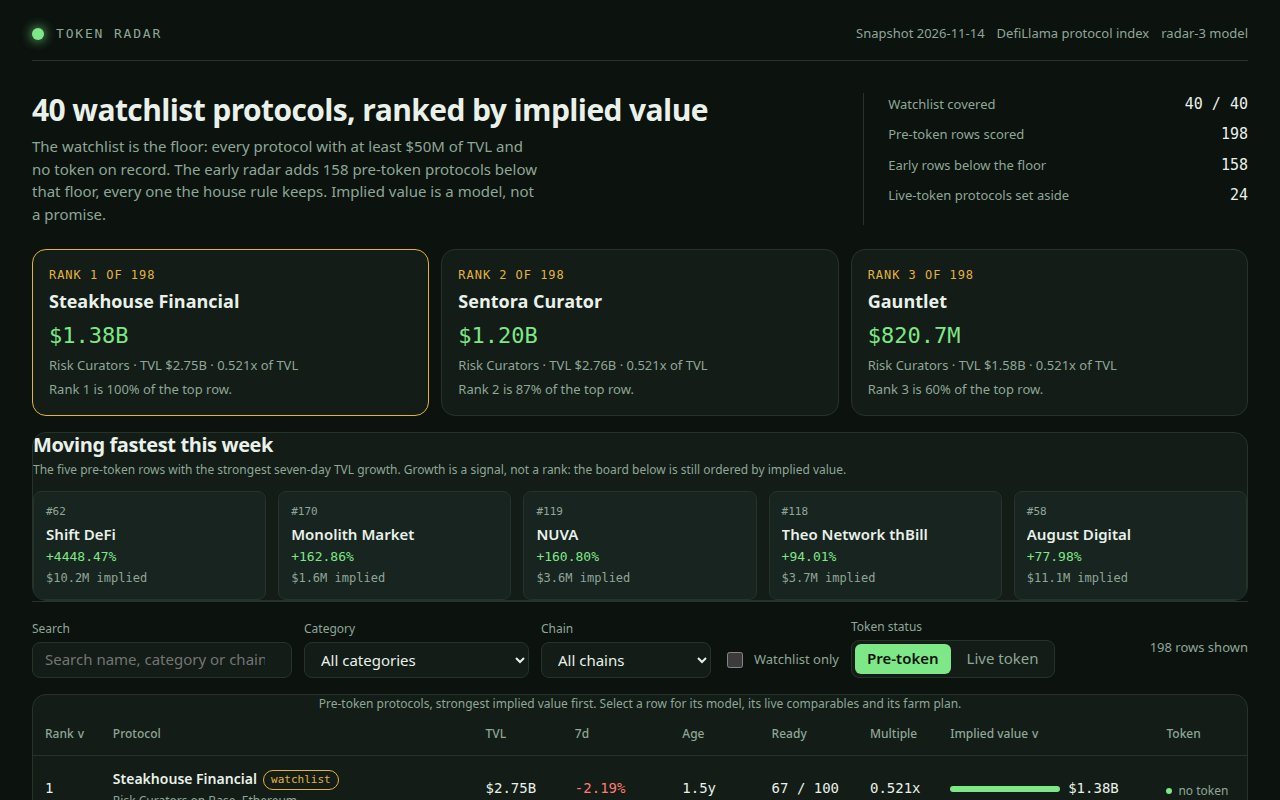
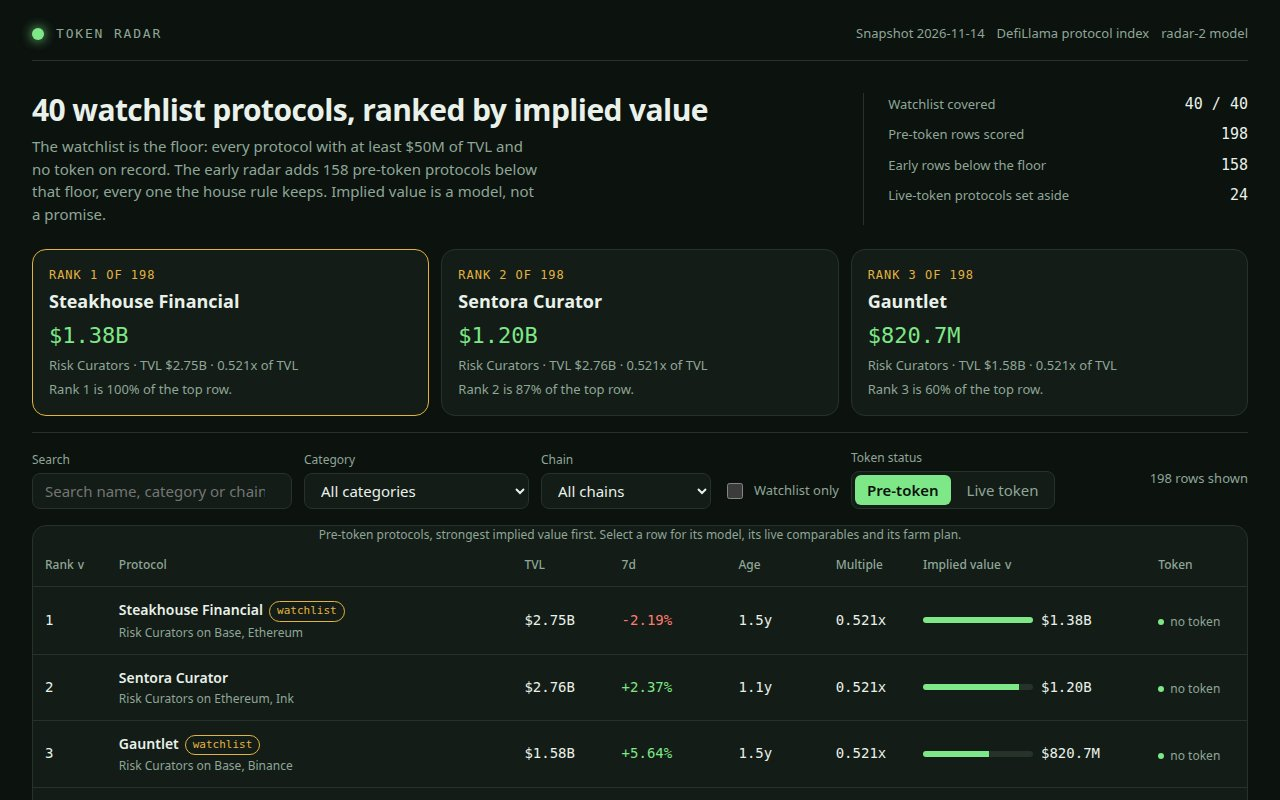
Token Radar: comps-calibrated pre-token board, dashboard and farm plans

diff --git a/dashboard/app.js b/dashboard/app.js
@@ -1,9 +1,8 @@
 // Token Radar's dashboard. It reads window.RADAR (written beside dashboard/ by main.ts) and
-// renders the ranked board, a filterable table, a top-movers strip, and a per-protocol detail view
-// with the model's own inputs, its live comparables, a launch-readiness score and the protocol's
-// farm plan. No network: every byte it shows is in data.js. The page recomputes each row from
-// the snapshot figures and the comps table, so the number on screen is the same arithmetic
-// board.json carries.
+// renders the ranked board, a filterable table, a per-protocol detail view with the model's own
+// inputs, its live comparables and the protocol's farm plan. No network: every byte it shows is
+// in data.js. The page recomputes each row from the snapshot figures and the comps table, so the
+// number on screen is the same arithmetic board.json carries.
 (function () {
   'use strict';
 
@@ -78,29 +77,6 @@
     var m = DATA.model;
     var chains = row.chains && row.chains.length > 0 ? row.chains.length : 1;
     return 1 + Math.min(chains - 1, m.breadth_max_chains) * m.breadth_per_chain;
-  }
-
-  // Launch readiness, 0..100, from the same four facts the value model reads, weighted for timing
-  // instead of size: size is worth 30 (a $2B protocol scores the full 30, a $50M one scores 0),
-  // age 25 (three years with no token scores the full 25), seven-day growth 30 (flat scores 10,
-  // +60% scores 30, -30% scores 0), and breadth 15 (one chain scores 0, nine or more score 15).
-  // The page recomputes the same score from the same figures, so the number on screen is the
-  // number board.json carries. It never moves the ranking: it is the timing read beside the
-  // value read, so a row can be worth a lot and still be early.
-  function readinessOf(row) {
-    var size = Math.max(0, Math.min(30, (30 * Math.log10(Math.max(row.tvl_usd, 1) / 50000000)) / Math.log10(40)));
-    var age = row.age_days === null || row.age_days === undefined ? DATA.model.unknown_age_days : row.age_days;
-    var agePts = Math.min(25, (25 * Math.min(Math.max(age, 0), DATA.model.maturity_days)) / DATA.model.maturity_days);
-    var growth = row.change_7d === null || row.change_7d === undefined ? 0 : row.change_7d;
-    var growthPts = 10 + Math.min(20, Math.max(-10, (Math.min(60, Math.max(-30, growth)) / 60) * 20));
-    var chains = row.chains && row.chains.length > 0 ? row.chains.length : 1;
-    var breadthPts = Math.min(15, Math.max(0, chains - 1) * 2);
-    return Math.min(100, Math.max(0, Math.round(size + agePts + growthPts + breadthPts)));
-  }
-  function readinessLabel(score) {
-    if (score >= 70) return 'Ready';
-    if (score >= 45) return 'Warming up';
-    return 'Early';
   }
 
   function el(tag, attrs) {
@@ -184,9 +160,7 @@
       { text: 'Make one qualifying action each week, such as a deposit, a borrow, a swap or a vote.', cost: gas + ' a week', time: '10 minutes a week' },
       { text: 'Hold the position for at least ' + hold + ' days so the activity is counted in more than one snapshot.', cost: 'the $' + capital + ' stays in the position', time: hold + ' days' },
       { text: "Before you withdraw, open the protocol's own points or rewards page and claim only from the link it publishes.", cost: 'no fee to check, and never pay to claim', time: '10 minutes' },
-      { text: 'Write the wallet, the dates and every transaction in a farm log so you can repeat the position or unwind it.', cost: 'nothing but the log', time: '5 minutes' },
-      { text: "Check the protocol's own announcement channels once a week, its governance forum and its social account, and note the date of any token or points announcement.", cost: 'no fee, just the weekly check', time: '10 minutes a week' },
-      { text: "Decide the exit before the launch: how much of any airdrop to keep and how much to sell, and leave enough of the chain's gas token in the wallet to claim and move it.", cost: 'the gas token you keep back', time: '10 minutes' }
+      { text: 'Write the wallet, the dates and every transaction in a farm log so you can repeat the position or unwind it.', cost: 'nothing but the log', time: '5 minutes' }
     ].map(stepText);
   }
 
@@ -233,7 +207,6 @@
       else if (key === 'tvl') { av = a.tvl_usd; bv = b.tvl_usd; }
       else if (key === 'growth') { av = a.change_7d === null ? -Infinity : a.change_7d; bv = b.change_7d === null ? -Infinity : b.change_7d; }
       else if (key === 'age') { av = a.age_days === null ? Infinity : a.age_days; bv = b.age_days === null ? Infinity : b.age_days; }
-      else if (key === 'readiness') { av = readinessOf(a); bv = readinessOf(b); }
       else if (key === 'multiple') { av = a.category_multiple; bv = b.category_multiple; }
       else { av = a.implied_value_usd; bv = b.implied_value_usd; }
       if (av < bv) return -state.dir;
@@ -281,29 +254,6 @@
           el('span', { class: 'spot-sub', text: 'Rank ' + r.rank + ' is ' + Math.round((r.implied_value_usd / max) * 100) + '% of the top row.' })
         );
       })
-    );
-  }
-
-  // The week's fastest growers on the board: the five pre-token rows whose TVL moved the most
-  // in seven days. Growth alone is not value — the board is still ranked by implied value — but
-  // a row that is both large and suddenly growing is the one whose launch window may be opening.
-  function movers() {
-    var top = DATA.rows.slice().sort(function (a, b) {
-      var av = a.change_7d === null ? -Infinity : a.change_7d;
-      var bv = b.change_7d === null ? -Infinity : b.change_7d;
-      return bv - av || (a.slug < b.slug ? -1 : 1);
-    }).slice(0, 5);
-    return el('section', { class: 'panel movers', 'aria-label': 'Fastest growers this week' },
-      el('h2', { text: 'Moving fastest this week' }),
-      el('p', { class: 'sub', text: 'The five pre-token rows with the strongest seven-day TVL growth. Growth is a signal, not a rank: the board below is still ordered by implied value.' }),
-      el('div', { class: 'mover-list' }, top.map(function (r) {
-        return el('button', { type: 'button', class: 'mover', onclick: function () { openDetail(r.slug); } },
-          el('span', { class: 'mover-rank', text: '#' + r.rank }),
-          el('span', { class: 'mover-name', text: r.name }),
-          el('span', { class: 'mover-growth ' + (r.change_7d >= 0 ? 'pos' : 'neg'), text: fmtPct(r.change_7d) }),
-          el('span', { class: 'mover-value', text: fmtUsd(r.implied_value_usd) + ' implied' })
-        );
-      }))
     );
   }
 
@@ -374,7 +324,6 @@
         el('td', { class: 'num', text: fmtUsd(r.tvl_usd) }),
         el('td', { class: 'num ' + growthClass, text: growth }),
         el('td', { class: 'num', text: fmtAge(r.age_days) }),
-        el('td', { class: 'num', text: readinessOf(r) + ' / 100' }),
         el('td', { class: 'num', text: fmtMult(r.category_multiple) }),
         el('td', null, el('div', { class: 'implied' },
           el('div', { class: 'bar', 'aria-hidden': 'true' }, el('i', { style: 'width:' + Math.max(3, Math.round((r.implied_value_usd / max) * 100)) + '%' })),
@@ -394,7 +343,6 @@
             sortHeader('tvl', 'TVL'),
             sortHeader('growth', '7d'),
             sortHeader('age', 'Age'),
-            sortHeader('readiness', 'Ready'),
             sortHeader('multiple', 'Multiple'),
             sortHeader('implied', 'Implied value'),
             el('th', { scope: 'col', text: 'Token' })
@@ -447,7 +395,6 @@
         'implied = round( tvl_usd x category_multiple x (1 + clamp(change_7d, ' + m.growth_floor + ', ' + m.growth_cap + ') / 100 x ' + m.growth_weight + ') x (' + m.maturity_floor + ' + min(age_days, ' + m.maturity_days + ') / ' + m.maturity_days + ' x ' + m.maturity_range + ') x (1 + min(chains - 1, ' + m.breadth_max_chains + ') x ' + m.breadth_per_chain + ') )'
       ),
       el('p', { class: 'sub', text: 'The category multiple is the median market-cap-to-TVL ratio of the live protocols in that category, each ratio first capped at the market 90th percentile of ' + fmtRatio(DATA.winsor_cap) + ', then shrunk toward the whole market median of ' + fmtRatio(DATA.global_median) + ' with weight ' + m.shrink_k + ' so a category with one or two comparables cannot price a protocol at ten times its TVL, and clamped to ' + m.multiple_floor + 'x-' + m.multiple_cap + 'x. Age is the time since the protocol was first listed, the best record of how long it has run with no token; an unlisted age uses ' + m.unknown_age_days + ' days.' }),
-      el('p', { class: 'sub', text: 'Readiness is a second score, 0 to 100, built from the same four facts and weighted for timing: size is worth 30, age 25, seven-day growth 30 and breadth 15. It never moves the ranking; it is the timing read beside the value read. Every row also carries an eight-step farm plan, and the page recomputes the plan from the same figures, so the steps on screen are the steps board.json carries.' }),
       el('div', { class: 'table-wrap' },
         el('table', { class: 'comps' },
           el('caption', { class: 'sub', text: 'Live comparables by category: the market the multiples are calibrated on.' }),
@@ -470,7 +417,6 @@
     dialog.textContent = '';
     var steps = farmSteps(row);
     var recomputed = impliedOf(row);
-    var ready = readinessOf(row);
     var comp = compFor(row.category);
     var sameCategory = DATA.live_all.filter(function (l) { return l.category === row.category; })
       .sort(function (a, b) { return (b.mcap_usd || 0) - (a.mcap_usd || 0); }).slice(0, 3);
@@ -508,19 +454,6 @@
       el('p', { class: 'sub', text: 'This is an estimate, not a price.' })
     ));
     dialog.appendChild(el('section', { class: 'detail-section' },
-      el('h3', { text: 'Launch readiness' }),
-      el('div', { class: 'equation' },
-        el('div', null, el('span', { text: 'Readiness score' }), el('b', { class: 'num', text: ready + ' / 100 · ' + readinessLabel(ready) })),
-        el('div', null, el('span', { text: 'Size, up to 30' }), el('b', { class: 'num', text: Math.max(0, Math.min(30, (30 * Math.log10(Math.max(row.tvl_usd, 1) / 50000000)) / Math.log10(40))).toFixed(1) })),
-        el('div', null, el('span', { text: 'Age with no token, up to 25' }), el('b', { class: 'num', text: (Math.min(25, (25 * Math.min(Math.max(row.age_days === null ? DATA.model.unknown_age_days : row.age_days, 0), DATA.model.maturity_days)) / DATA.model.maturity_days)).toFixed(1) })),
-        el('div', null, el('span', { text: 'Seven-day growth, up to 30' }), el('b', { class: 'num', text: (10 + Math.min(20, Math.max(-10, (Math.min(60, Math.max(-30, row.change_7d === null ? 0 : row.change_7d)) / 60) * 20))).toFixed(1) })),
-        el('div', null, el('span', { text: 'Chains, up to 15' }), el('b', { class: 'num', text: String(Math.min(15, Math.max(0, (row.chains ? row.chains.length : 1) - 1) * 2)) }))
-      ),
-      el('div', { class: 'ready-bar', 'aria-hidden': 'true' }, el('i', { style: 'width:' + ready + '%' })),
-      el('p', { class: 'sub', text: 'Readiness is timing, not value: it never moves the ranking. A row can be worth a lot and still be early, and a ready row can be small. 70 and above is ready, 45 to 69 is warming up, below 45 is early.' }),
-      el('p', { class: ready === row.readiness ? 'match' : 'mismatch', text: ready === row.readiness ? 'The page recomputes readiness as ' + ready + ' / 100, the same number board.json carries.' : 'The page recomputes readiness as ' + ready + ' / 100, which differs from the board: the data would be stale.' })
-    ));
-    dialog.appendChild(el('section', { class: 'detail-section' },
       el('h3', { text: 'Live comparables in ' + (row.category || 'this category') }),
       compBlock
     ));
@@ -553,7 +486,6 @@
     shell.appendChild(header());
     shell.appendChild(lede());
     shell.appendChild(spotlight());
-    shell.appendChild(movers());
     shell.appendChild(controls());
     shell.appendChild(state.tab === 'pre-token' ? boardTable() : liveTable());
     if (state.tab === 'pre-token') shell.appendChild(modelPanel());

diff --git a/lib/model.ts b/lib/model.ts
@@ -27,13 +27,6 @@
 //   breadth    = 1 + min(chains - 1, 9) x 0.02
 //   implied    = max(1, round(base x growthMult x maturity x breadth))
 //
-// Readiness is a second, separate signal: how close a protocol looks to launching, on a 0..100
-// scale built from the same four facts the value model reads, weighted differently: size is worth
-// 30 (a $2B protocol scores the full 30, a $50M one scores 0), age 25 (three years with no token
-// scores the full 25), seven-day growth 30 (flat scores 10, +60% scores 30, -30% scores 0), and
-// breadth 15 (one chain scores 0, nine or more score 15). It never moves the ranking: it is the
-// timing read beside the value read, so a row can be worth a lot and still be early.
-//
 // TVL is the size of the business, the category multiple is what the market pays for that kind of
 // business, growth is its direction, maturity is how long it has run with no token (a protocol that
 // held billions for years without issuing is the one whose launch is overdue), and breadth is how
@@ -96,7 +89,7 @@ export const MODEL: ModelConstants = {
 };
 
 /** The model's version label: the dashboard names it. */
-export const MODEL_VERSION = 'radar-3';
+export const MODEL_VERSION = 'radar-2';
 
 /** How many live-token protocols the Live token view carries, by market cap. */
 export const LIVE_ROWS = 24;
@@ -124,7 +117,6 @@ export interface BoardRow {
   token_status: 'pre-token';
   age_days: number | null;
   implied_value_usd: number;
-  readiness: number;
   model: {
     category: string | null;
     category_multiple: number;
@@ -135,8 +127,6 @@ export interface BoardRow {
     maturity_multiplier: number;
     breadth_multiplier: number;
     age_days: number | null;
-    readiness: number;
-    readiness_label: string;
   };
   farm_steps: string[];
 }
@@ -160,7 +150,6 @@ export interface RadarRow {
   change_7d: number | null;
   age_days: number | null;
   implied_value_usd: number;
-  readiness: number;
   category_multiple: number;
   growth_multiplier: number;
   maturity_multiplier: number;
@@ -338,31 +327,6 @@ export function impliedValue(
   return { implied, categoryMultiple: multiple, compsN: n, categoryMedian: median, growthPct, growthMult, maturityMult, breadthMult, age };
 }
 
-/**
- * How close a protocol looks to launching, 0..100, from the same four facts the value model
- * reads, weighted for timing instead of size: size is worth 30 (a $2B protocol scores the full
- * 30, a $50M one scores 0), age 25 (three years with no token scores the full 25), seven-day
- * growth 30 (flat scores 10, +60% scores 30, -30% scores 0), and breadth 15 (one chain scores 0,
- * nine or more score 15). The page recomputes the same score from the same figures, so the
- * number on screen is the number board.json carries.
- */
-export function readinessOf(tvlUsd: number, change7d: number | null, age: number | null, chains: number): number {
-  const size = Math.max(0, Math.min(30, (30 * Math.log10(Math.max(tvlUsd, 1) / 50_000_000)) / Math.log10(40)));
-  const ageDays = age ?? MODEL.unknown_age_days;
-  const agePts = Math.min(25, (25 * Math.min(Math.max(ageDays, 0), MODEL.maturity_days)) / MODEL.maturity_days);
-  const growth = change7d === null ? 0 : change7d;
-  const growthPts = 10 + Math.min(20, Math.max(-10, (Math.min(60, Math.max(-30, growth)) / 60) * 20));
-  const breadthPts = Math.min(15, Math.max(0, chains - 1) * 2);
-  return Math.min(100, Math.max(0, Math.round(size + agePts + growthPts + breadthPts)));
-}
-
-/** What a readiness score means: ready to watch daily, warming up, or still early. */
-export function readinessLabel(score: number): string {
-  if (score >= 70) return 'Ready';
-  if (score >= 45) return 'Warming up';
-  return 'Early';
-}
-
 /** The snapshot's protocol by slug. */
 function bySlug(protocols: SnapshotProtocol[]): Map<string, SnapshotProtocol> {
   return new Map(protocols.map((p) => [p.slug, p]));
@@ -387,8 +351,7 @@ export function buildBoard(snapshot: Snapshot, model: ModelConstants = MODEL): B
 
   const scored = [...chosen.values()].map((p) => {
     const v = impliedValue(p, snapshot.as_of, comps, globalMedian, model);
-    const ready = readinessOf(p.tvl_usd, p.change_7d, v.age, p.chains.length);
-    return { p, ...v, ready };
+    return { p, ...v };
   });
   scored.sort((a, b) => b.implied - a.implied || (a.p.slug < b.p.slug ? -1 : a.p.slug > b.p.slug ? 1 : 0));
   return scored.map((s, i) => ({
@@ -406,7 +369,6 @@ export function buildBoard(snapshot: Snapshot, model: ModelConstants = MODEL): B
     token_status: 'pre-token' as const,
     age_days: s.age,
     implied_value_usd: s.implied,
-    readiness: s.ready,
     model: {
       category: s.p.category,
       category_multiple: round4(s.categoryMultiple),
@@ -417,8 +379,6 @@ export function buildBoard(snapshot: Snapshot, model: ModelConstants = MODEL): B
       maturity_multiplier: round4(s.maturityMult),
       breadth_multiplier: round4(s.breadthMult),
       age_days: s.age,
-      readiness: s.ready,
-      readiness_label: readinessLabel(s.ready),
     },
     farm_steps: farmSteps(s.p, s.age).map(stepText),
   }));
@@ -492,10 +452,8 @@ function actionFor(p: SnapshotProtocol, capital: number, chain: string): string 
 }
 
 /**
- * A protocol's farm plan: eight steps, each an action with a cost and a time. The plan is derived
- * from the protocol's own record (category, chains, TVL, age), never from a hand-written list of
- * names. The last two steps are the same for every row: watch for the launch, then decide the exit
- * before it happens, so the plan ends with the token instead of the position.
+ * A protocol's farm plan: six steps, each an action with a cost and a time. The plan is derived from
+ * the protocol's own record (category, chains, TVL, age), never from a hand-written list of names.
  */
 export function farmSteps(p: SnapshotProtocol, age: number | null): FarmStep[] {
   const chain = chainOf(p);
@@ -534,16 +492,6 @@ export function farmSteps(p: SnapshotProtocol, age: number | null): FarmStep[] {
       cost: 'nothing but the log',
       time: '5 minutes',
     },
-    {
-      text: `Check the protocol's own announcement channels once a week, its governance forum and its social account, and note the date of any token or points announcement.`,
-      cost: 'no fee, just the weekly check',
-      time: '10 minutes a week',
-    },
-    {
-      text: `Decide the exit before the launch: how much of any airdrop to keep and how much to sell, and leave enough of the chain's gas token in the wallet to claim and move it.`,
-      cost: 'the gas token you keep back',
-      time: '10 minutes',
-    },
   ];
 }
 
@@ -576,7 +524,6 @@ export function radarRow(row: BoardRow, watchlist: boolean): RadarRow {
     change_7d: row.change_7d,
     age_days: row.age_days,
     implied_value_usd: row.implied_value_usd,
-    readiness: row.readiness,
     category_multiple: row.model.category_multiple,
     growth_multiplier: row.model.growth_multiplier,
     maturity_multiplier: row.model.maturity_multiplier,

diff --git a/dashboard/app.css b/dashboard/app.css
@@ -168,18 +168,3 @@ tbody tr[data-selected="true"] { background: var(--accent-dim); }
 @media (prefers-reduced-motion: reduce) {
   *, *::before, *::after { transition-duration: 0.01ms !important; animation-duration: 0.01ms !important; animation-iteration-count: 1 !important; }
 }
-
-.movers h2 { margin-bottom: var(--step-1); }
-.mover-list { display: grid; grid-template-columns: repeat(5, 1fr); gap: var(--step-3); margin-top: var(--step-3); }
-.mover { display: grid; gap: 2px; text-align: left; background: var(--surface-2); border: 1px solid var(--border); border-radius: 8px; padding: var(--step-3); color: inherit; cursor: pointer; font: inherit; }
-.mover:hover { border-color: var(--accent); }
-.mover-rank { color: var(--muted); font-size: 11px; font-family: var(--font-num); }
-.mover-name { font-weight: 600; overflow: hidden; text-overflow: ellipsis; white-space: nowrap; }
-.mover-growth { font-family: var(--font-num); font-size: 13px; }
-.mover-value { color: var(--muted); font-size: 12px; font-family: var(--font-num); }
-.ready-bar { height: 8px; background: var(--surface-2); border: 1px solid var(--border); border-radius: 4px; margin-top: var(--step-3); overflow: hidden; }
-.ready-bar i { display: block; height: 100%; background: var(--accent); }
-
-@media (max-width: 900px) {
-  .mover-list { grid-template-columns: 1fr 1fr; }
-}

diff --git a/README.md b/README.md
@@ -8,11 +8,7 @@ Token Radar ranks 198 pre-token DeFi protocols by comps-calibrated implied launc
 
 ## How it works
 
-The program reads a sealed snapshot of the protocols DefiLlama tracks, keeps every protocol that records no token and is not a wrapped, staked or bridged product of a token that already trades (the house watchlist rule, applied to the whole board), and ranks it by implied value. The value is calibrated on the live market: each category's multiple is the median market-cap-to-TVL ratio of the live protocols in that category, winsorized at the market's 90th percentile and shrunk toward the whole market's median, then adjusted for seven-day growth, for how long the protocol has run with no token, and for how many chains it spans. Every row carries an eight-step farm plan with costs and times, and the dashboard recomputes every row from the same figures, so the page and the board agree.
-
-## Readiness
-
-Each row also carries a launch-readiness score from 0 to 100, a timing read beside the value read: size is worth 30, age with no token 25, seven-day growth 30 and chain breadth 15. A score of 70 or more is ready, 45 to 69 is warming up, below 45 is early. Readiness never moves the ranking — a row can be worth a lot and still be early. The board table has a Ready column that sorts by it, the top-movers strip shows the week's five fastest growers, and each protocol's detail view breaks the score into its four parts and checks it against the board.
+The program reads a sealed snapshot of the protocols DefiLlama tracks, keeps every protocol that records no token and is not a wrapped, staked or bridged product of a token that already trades (the house watchlist rule, applied to the whole board), and ranks it by implied value. The value is calibrated on the live market: each category's multiple is the median market-cap-to-TVL ratio of the live protocols in that category, winsorized at the market's 90th percentile and shrunk toward the whole market's median, then adjusted for seven-day growth, for how long the protocol has run with no token, and for how many chains it spans. Every row carries a six-step farm plan with costs and times, and the dashboard recomputes every row from the same figures, so the page and the board agree.
 
 ## Run it
 
